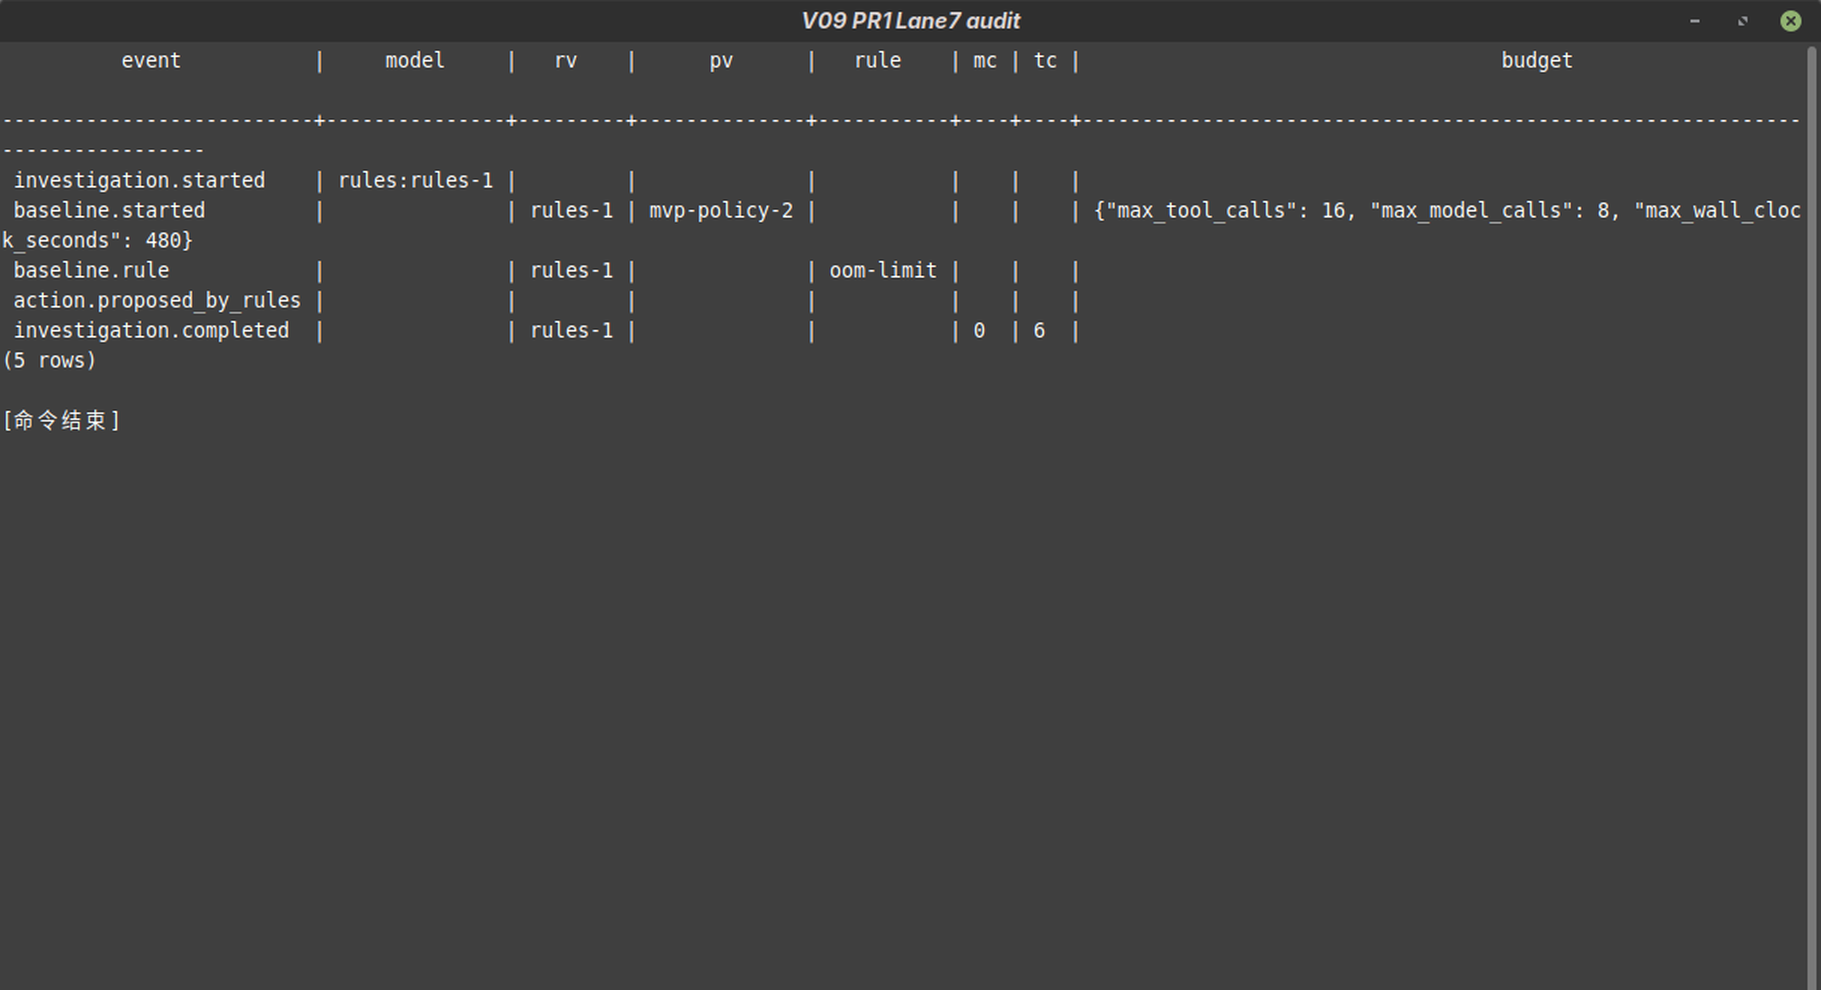
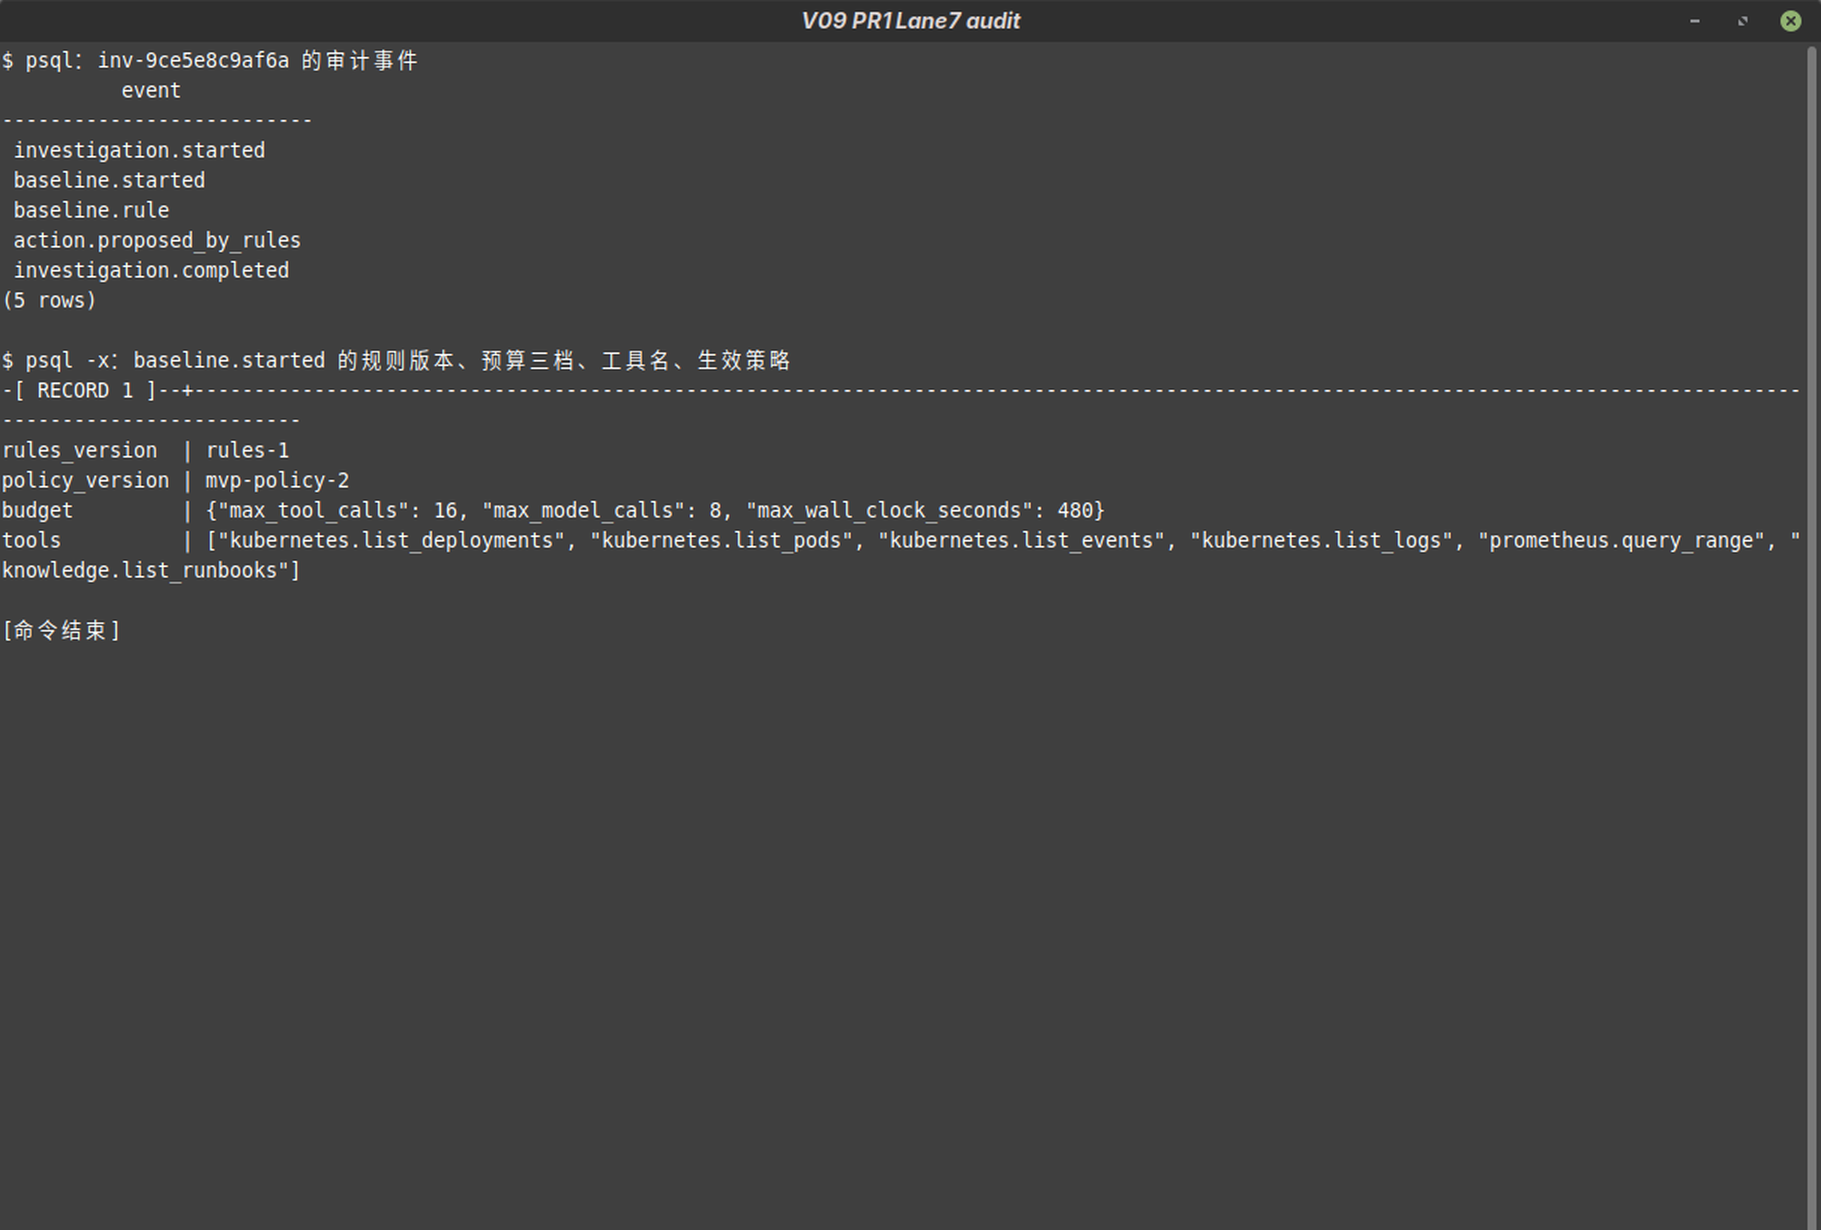
docs(demo): 补齐规则基线的对照、观察窗与预算证据
Lane 1 改在主干 7f8a552 上对照，截图带上命令与提交号。Lane 3、Lane 5 重跑并显示 --lookback-minutes。Lane 7 补上预算三档。汇总 lane 2、3、4 的审查拼图，勾选已核对的 PR-1 计划项。

diff --git a/docs/plans/v09-rules-baseline.md b/docs/plans/v09-rules-baseline.md
@@ -70,54 +70,54 @@ PR-1 的代码已经在工作区未提交。执行时按 **Build** 与 **Verify*
 
 **Files.**
 
-- [ ] 新建 `src/aiops/investigation/baseline.py`。
-- [ ] 新建 `src/aiops/migrations/0009_action_origin_rules.sql`。
-- [ ] 新建 `tests/test_baseline.py`。
-- [ ] 修改 `src/aiops/contracts.py`。
-- [ ] 修改 `src/aiops/investigation/factory.py`。
-- [ ] 修改 `src/aiops/cli.py`。
+- [x] 新建 `src/aiops/investigation/baseline.py`。
+- [x] 新建 `src/aiops/migrations/0009_action_origin_rules.sql`。
+- [x] 新建 `tests/test_baseline.py`。
+- [x] 修改 `src/aiops/contracts.py`。
+- [x] 修改 `src/aiops/investigation/factory.py`。
+- [x] 修改 `src/aiops/cli.py`。
 
 **Build.**
 
-- [ ] `ActionOrigin` 增加 `RULES`，`ActionProposal` 的证据必填校验覆盖模型与规则两类自动提案。文件 `contracts.py`。
-- [ ] 迁移 0009 放宽 `action_proposals.origin` 的 CHECK，允许 `rules`。
-- [ ] `RulesBaseline` 固定三条假设、六条查询与有序规则表，写 `baseline.started`、`baseline.rule` 和终态审计。文件 `baseline.py`。
-- [ ] `_open_io` 抽出共用装配，新增 `open_baseline`，不构造模型客户端。文件 `factory.py`。
-- [ ] `investigate` 增加 `--mode rules`，模型名写 `rules:rules-1`，启动审计带 mode。文件 `cli.py`。
+- [x] `ActionOrigin` 增加 `RULES`，`ActionProposal` 的证据必填校验覆盖模型与规则两类自动提案。文件 `contracts.py`。
+- [x] 迁移 0009 放宽 `action_proposals.origin` 的 CHECK，允许 `rules`。
+- [x] `RulesBaseline` 固定三条假设、六条查询与有序规则表，写 `baseline.started`、`baseline.rule` 和终态审计。文件 `baseline.py`。
+- [x] `_open_io` 抽出共用装配，新增 `open_baseline`，不构造模型客户端。文件 `factory.py`。
+- [x] `investigate` 增加 `--mode rules`，模型名写 `rules:rules-1`，启动审计带 mode。文件 `cli.py`。
 
 **You see.**
 
-- [ ] `uv run aiops investigate --mode rules ...` 打印「调查 inv-…：completed」和以「固定规则判定」开头的根因候选。
-- [ ] 该调查在库里 model 为 `rules:rules-1`，used_model_calls 为 0，used_tool_calls 为 6。
+- [x] `uv run aiops investigate --mode rules ...` 打印「调查 inv-…：completed」和以「固定规则判定」开头的根因候选。
+- [x] 该调查在库里 model 为 `rules:rules-1`，used_model_calls 为 0，used_tool_calls 为 6。
 
 **Verify, unit.** 只跑测试不算验证。一个 PR 只有单元、实机、性能三类框全部勾上，才算验证完成。
 
-- [ ] `tests/test_baseline.py` 覆盖三类规则命中、无命中、窗口外 OOM 忽略、工具失败不算证据、预算耗尽中止、提案归因。运行 `make check-all`。
+- [x] `tests/test_baseline.py` 覆盖三类规则命中、无命中、窗口外 OOM 忽略、工具失败不算证据、预算耗尽中止、提案归因。运行 `make check-all`。
 
 **Verify, live.** 只跑测试不算验证。一个 PR 只有单元、实机、性能三类框全部勾上，才算验证完成。十条 lane 在 `sonnet max` 上针对 PR head 执行，按上面的启动步骤串行跑。
 
-- [ ] Lane 1. 回归 lane，对照主干。主干没有 `--mode`，记录这个事实。同一次 F02 注入下，head 跑 `--mode rules`，主干跑 `--mode agent`。截图存 `demos/ms08/screenshots/v09/pr-1-lane-1-trunk.png`。通过条件是 head 在 0 次模型调用下终态 completed 并给出提案，主干的 `aiops investigate --help` 里没有 `--mode`。
-- [ ] Lane 2. 注入 F02 内存限额 16Mi 后跑规则调查。截图存 `demos/ms08/screenshots/v09/pr-1-lane-2-f02-oom.png`。通过条件是结论含 OOMKilled、`16Mi` 与 `128Mi`，并给出 `rollout_undo` 提案。
-- [ ] Lane 3. 注入 F01 坏发布后跑规则调查，观察窗用 30 分钟。截图存 `demos/ms08/screenshots/v09/pr-1-lane-3-f01-rollout.png`。通过条件是结论含「观察窗内启动」与 canary 镜像名，并给出回退提案。
-- [ ] Lane 4. 注入 F03 Redis 代理后跑规则调查。截图存 `demos/ms08/screenshots/v09/pr-1-lane-4-f03-new-workload.png`。通过条件是结论含「新增工作负载 redis-access-proxy」，且没有提案。
-- [ ] Lane 5. F01 注入下把观察窗缩到 5 分钟再跑一次。截图存 `demos/ms08/screenshots/v09/pr-1-lane-5-window-miss.png`。通过条件是结论不指向模板变更、没有回退提案，输出里能看到观察窗把 Pod 启动排除在外。
-- [ ] Lane 6. 把 `VIGIL_INVESTIGATION_BUDGET_TOOL_CALLS` 设成 2 再跑一次。截图存 `demos/ms08/screenshots/v09/pr-1-lane-6-budget.png`。通过条件是终态 aborted、终止原因含「预算耗尽」，且没有提案。
-- [ ] Lane 7. 查该调查的审计事件。截图存 `demos/ms08/screenshots/v09/pr-1-lane-7-audit.png`。通过条件是 `baseline.started`、`baseline.rule`、`investigation.completed` 三条齐全，`baseline.started` 里的规则版本、预算三档、工具名与生效策略都是实值。
-- [ ] Lane 8. 查提案的归因。截图存 `demos/ms08/screenshots/v09/pr-1-lane-8-origin.png`。通过条件是 `origin` 为 `rules`、`evidence_ids` 非空、风险判定为人工审批。
-- [ ] Lane 9. 跑 `faults/f01-bad-release/repeat.sh cleanup` 等恢复。截图存 `demos/ms08/screenshots/v09/pr-1-lane-9-cleanup.png`。通过条件是首页 200、Pod 重启数为 0、F03 代理负载已删除。
-- [ ] Lane 10. 无故障状态下同一命令连跑两次。截图存 `demos/ms08/screenshots/v09/pr-1-lane-10-replay.png`。通过条件是两次都 inconclusive、都没有提案、工具调用都是 6 次。
+- [x] Lane 1. 回归 lane，对照主干。主干没有 `--mode`，记录这个事实。同一次 F02 注入下，head 跑 `--mode rules`，主干跑 `--mode agent`。截图存 `demos/ms08/screenshots/v09/pr-1-lane-1-trunk.png`。通过条件是 head 在 0 次模型调用下终态 completed 并给出提案，主干的 `aiops investigate --help` 里没有 `--mode`。
+- [x] Lane 2. 注入 F02 内存限额 16Mi 后跑规则调查。截图存 `demos/ms08/screenshots/v09/pr-1-lane-2-f02-oom.png`。通过条件是结论含 OOMKilled、`16Mi` 与 `128Mi`，并给出 `rollout_undo` 提案。
+- [x] Lane 3. 注入 F01 坏发布后跑规则调查，观察窗用 30 分钟。截图存 `demos/ms08/screenshots/v09/pr-1-lane-3-f01-rollout.png`。通过条件是结论含「观察窗内启动」与 canary 镜像名，并给出回退提案。
+- [x] Lane 4. 注入 F03 Redis 代理后跑规则调查。截图存 `demos/ms08/screenshots/v09/pr-1-lane-4-f03-new-workload.png`。通过条件是结论含「新增工作负载 redis-access-proxy」，且没有提案。
+- [x] Lane 5. F01 注入下把观察窗缩到 5 分钟再跑一次。截图存 `demos/ms08/screenshots/v09/pr-1-lane-5-window-miss.png`。通过条件是结论不指向模板变更、没有回退提案，输出里能看到观察窗把 Pod 启动排除在外。
+- [x] Lane 6. 把 `VIGIL_INVESTIGATION_BUDGET_TOOL_CALLS` 设成 2 再跑一次。截图存 `demos/ms08/screenshots/v09/pr-1-lane-6-budget.png`。通过条件是终态 aborted、终止原因含「预算耗尽」，且没有提案。
+- [x] Lane 7. 查该调查的审计事件。截图存 `demos/ms08/screenshots/v09/pr-1-lane-7-audit.png`。通过条件是 `baseline.started`、`baseline.rule`、`investigation.completed` 三条齐全，`baseline.started` 里的规则版本、预算三档、工具名与生效策略都是实值。
+- [x] Lane 8. 查提案的归因。截图存 `demos/ms08/screenshots/v09/pr-1-lane-8-origin.png`。通过条件是 `origin` 为 `rules`、`evidence_ids` 非空、风险判定为人工审批。
+- [x] Lane 9. 跑 `faults/f01-bad-release/repeat.sh cleanup` 等恢复。截图存 `demos/ms08/screenshots/v09/pr-1-lane-9-cleanup.png`。通过条件是首页 200、Pod 重启数为 0、F03 代理负载已删除。
+- [x] Lane 10. 无故障状态下同一命令连跑两次。截图存 `demos/ms08/screenshots/v09/pr-1-lane-10-replay.png`。通过条件是两次都 inconclusive、都没有提案、工具调用都是 6 次。
 
 **Verify, perf.** 只跑测试不算验证。一个 PR 只有单元、实机、性能三类框全部勾上，才算验证完成。
 
-- [ ] 指标。单次规则调查的模型调用数、工具调用数和起止时间。主干没有该模式，记录缺失。
-- [ ] 探针。`docker exec -e PGPASSWORD=... vigil-postgres psql -U vigil -d vigil -c "select id, model, used_model_calls, used_tool_calls, started_at, finished_at from investigations where model like 'rules:%'"`，head 三次运行后各查一次，主干跑同一条查询。
-- [ ] 基线。先记录主干的结果，预期 0 行，因为特性不存在。
-- [ ] 规则。主干没有该特性，不给比值。head 三次运行必须都是模型调用 0、工具调用 6、墙钟在 480 秒预算内。任一次超出即失败。
+- [x] 指标。单次规则调查的模型调用数、工具调用数和起止时间。主干没有该模式，记录缺失。
+- [x] 探针。`docker exec -e PGPASSWORD=... vigil-postgres psql -U vigil -d vigil -c "select id, model, used_model_calls, used_tool_calls, started_at, finished_at from investigations where model like 'rules:%'"`，head 三次运行后各查一次，主干跑同一条查询。
+- [x] 基线。先记录主干的结果，预期 0 行，因为特性不存在。
+- [x] 规则。主干没有该特性，不给比值。head 三次运行必须都是模型调用 0、工具调用 6、墙钟在 480 秒预算内。任一次超出即失败。
 
 **Review gate.** 操作者在合入前审查。
 
-- [ ] 把 lane 2、lane 3、lane 4 的截图汇总到一组，路径为 `demos/ms08/screenshots/v09/pr-1-review-rules.png`，确认能打开。
-- [ ] 录一段 30 到 60 秒的视频，覆盖一次规则运行和一次预算截断运行。存为 `demos/ms08/screenshots/v09/pr-1-review.mp4`。
+- [x] 把 lane 2、lane 3、lane 4 的截图汇总到一组，路径为 `demos/ms08/screenshots/v09/pr-1-review-rules.png`，确认能打开。
+- [x] 录一段 30 到 60 秒的视频，覆盖一次规则运行和一次预算截断运行。存为 `demos/ms08/screenshots/v09/pr-1-review.mp4`。
 - [ ] 在对话里发出截图与视频。停在 merge-ready，等操作者确认。
 
 **Merge.**
